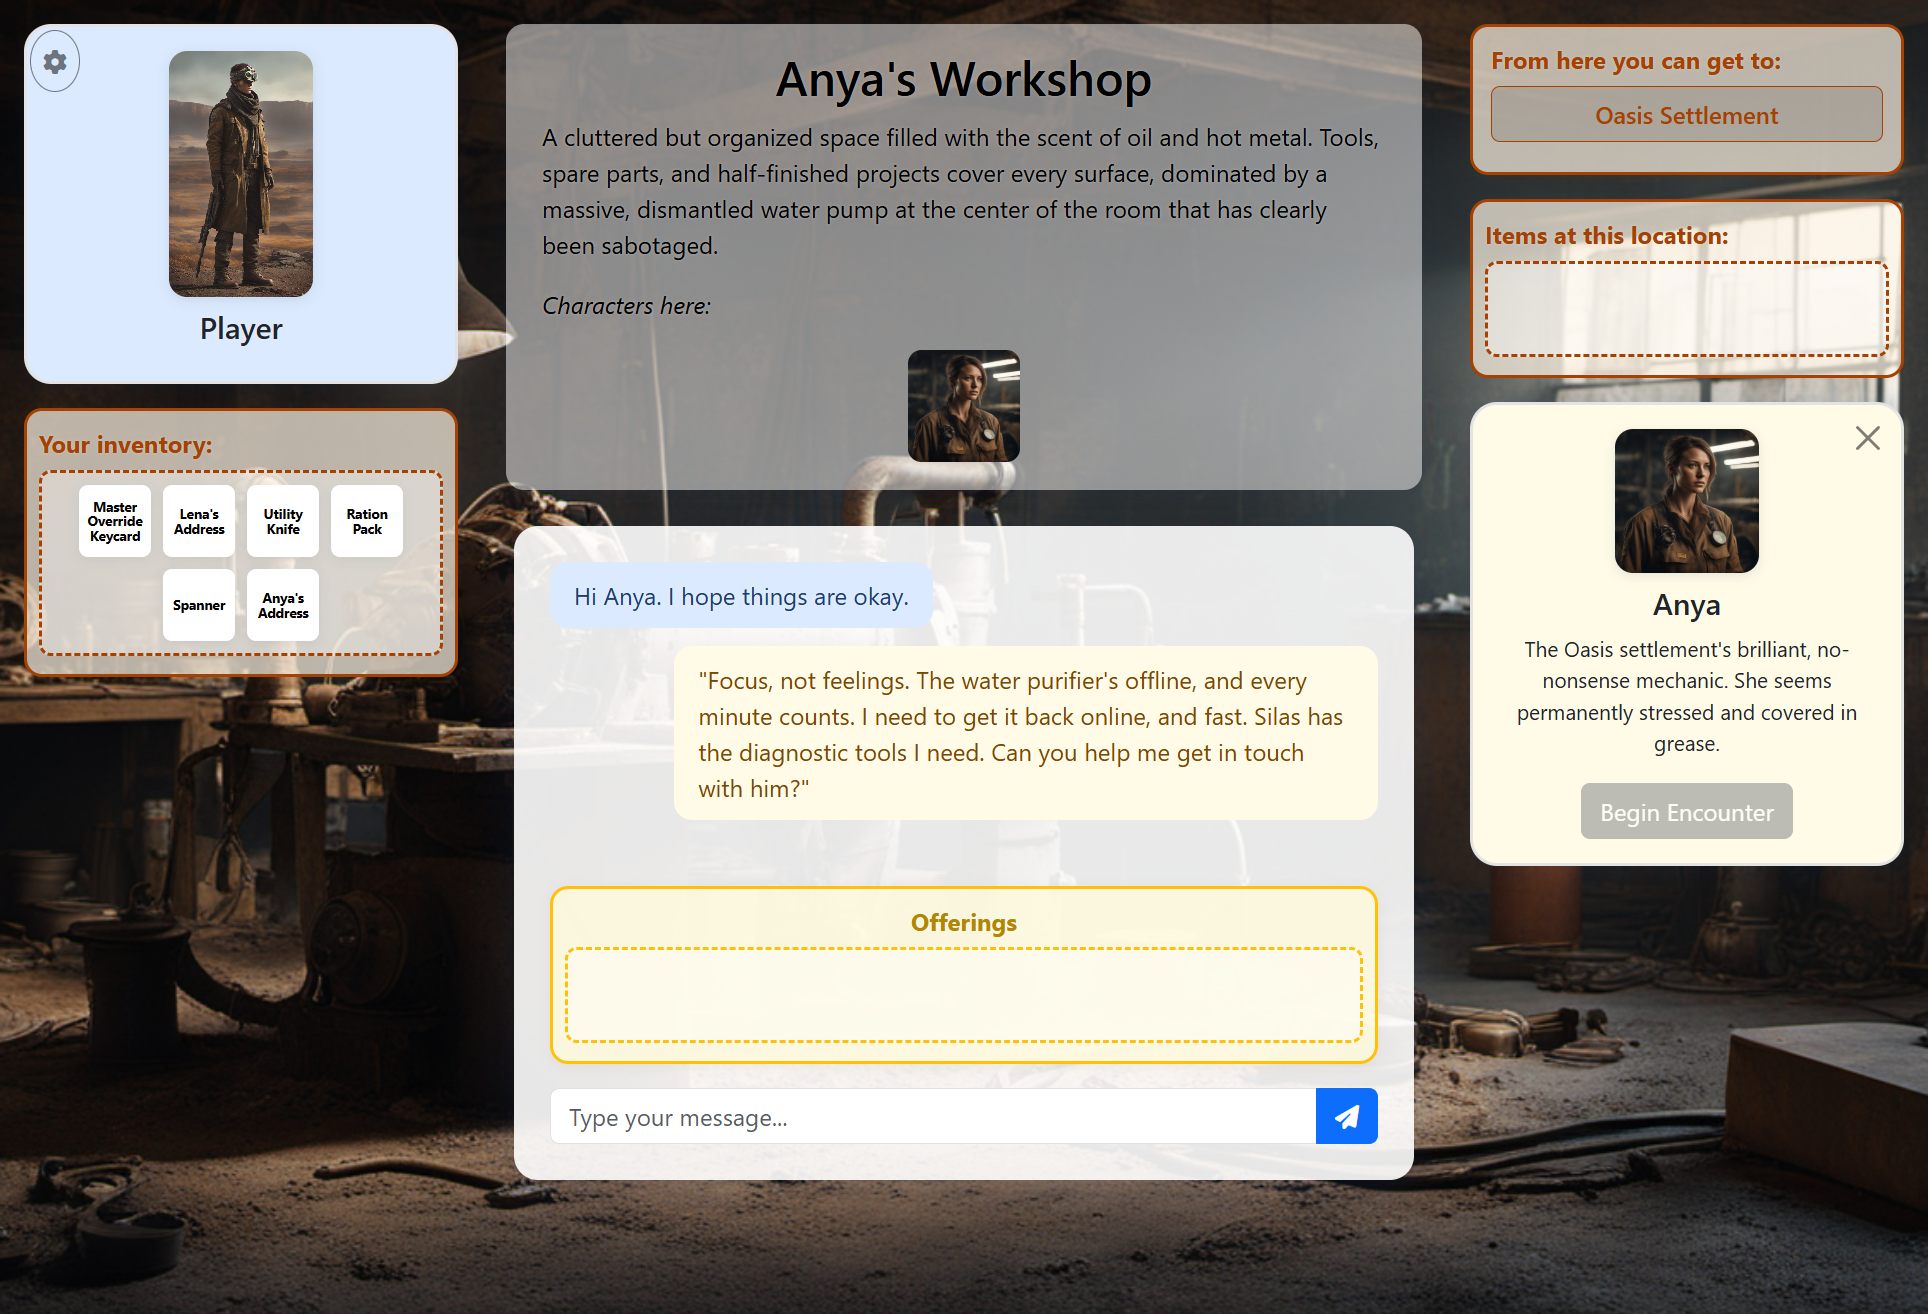
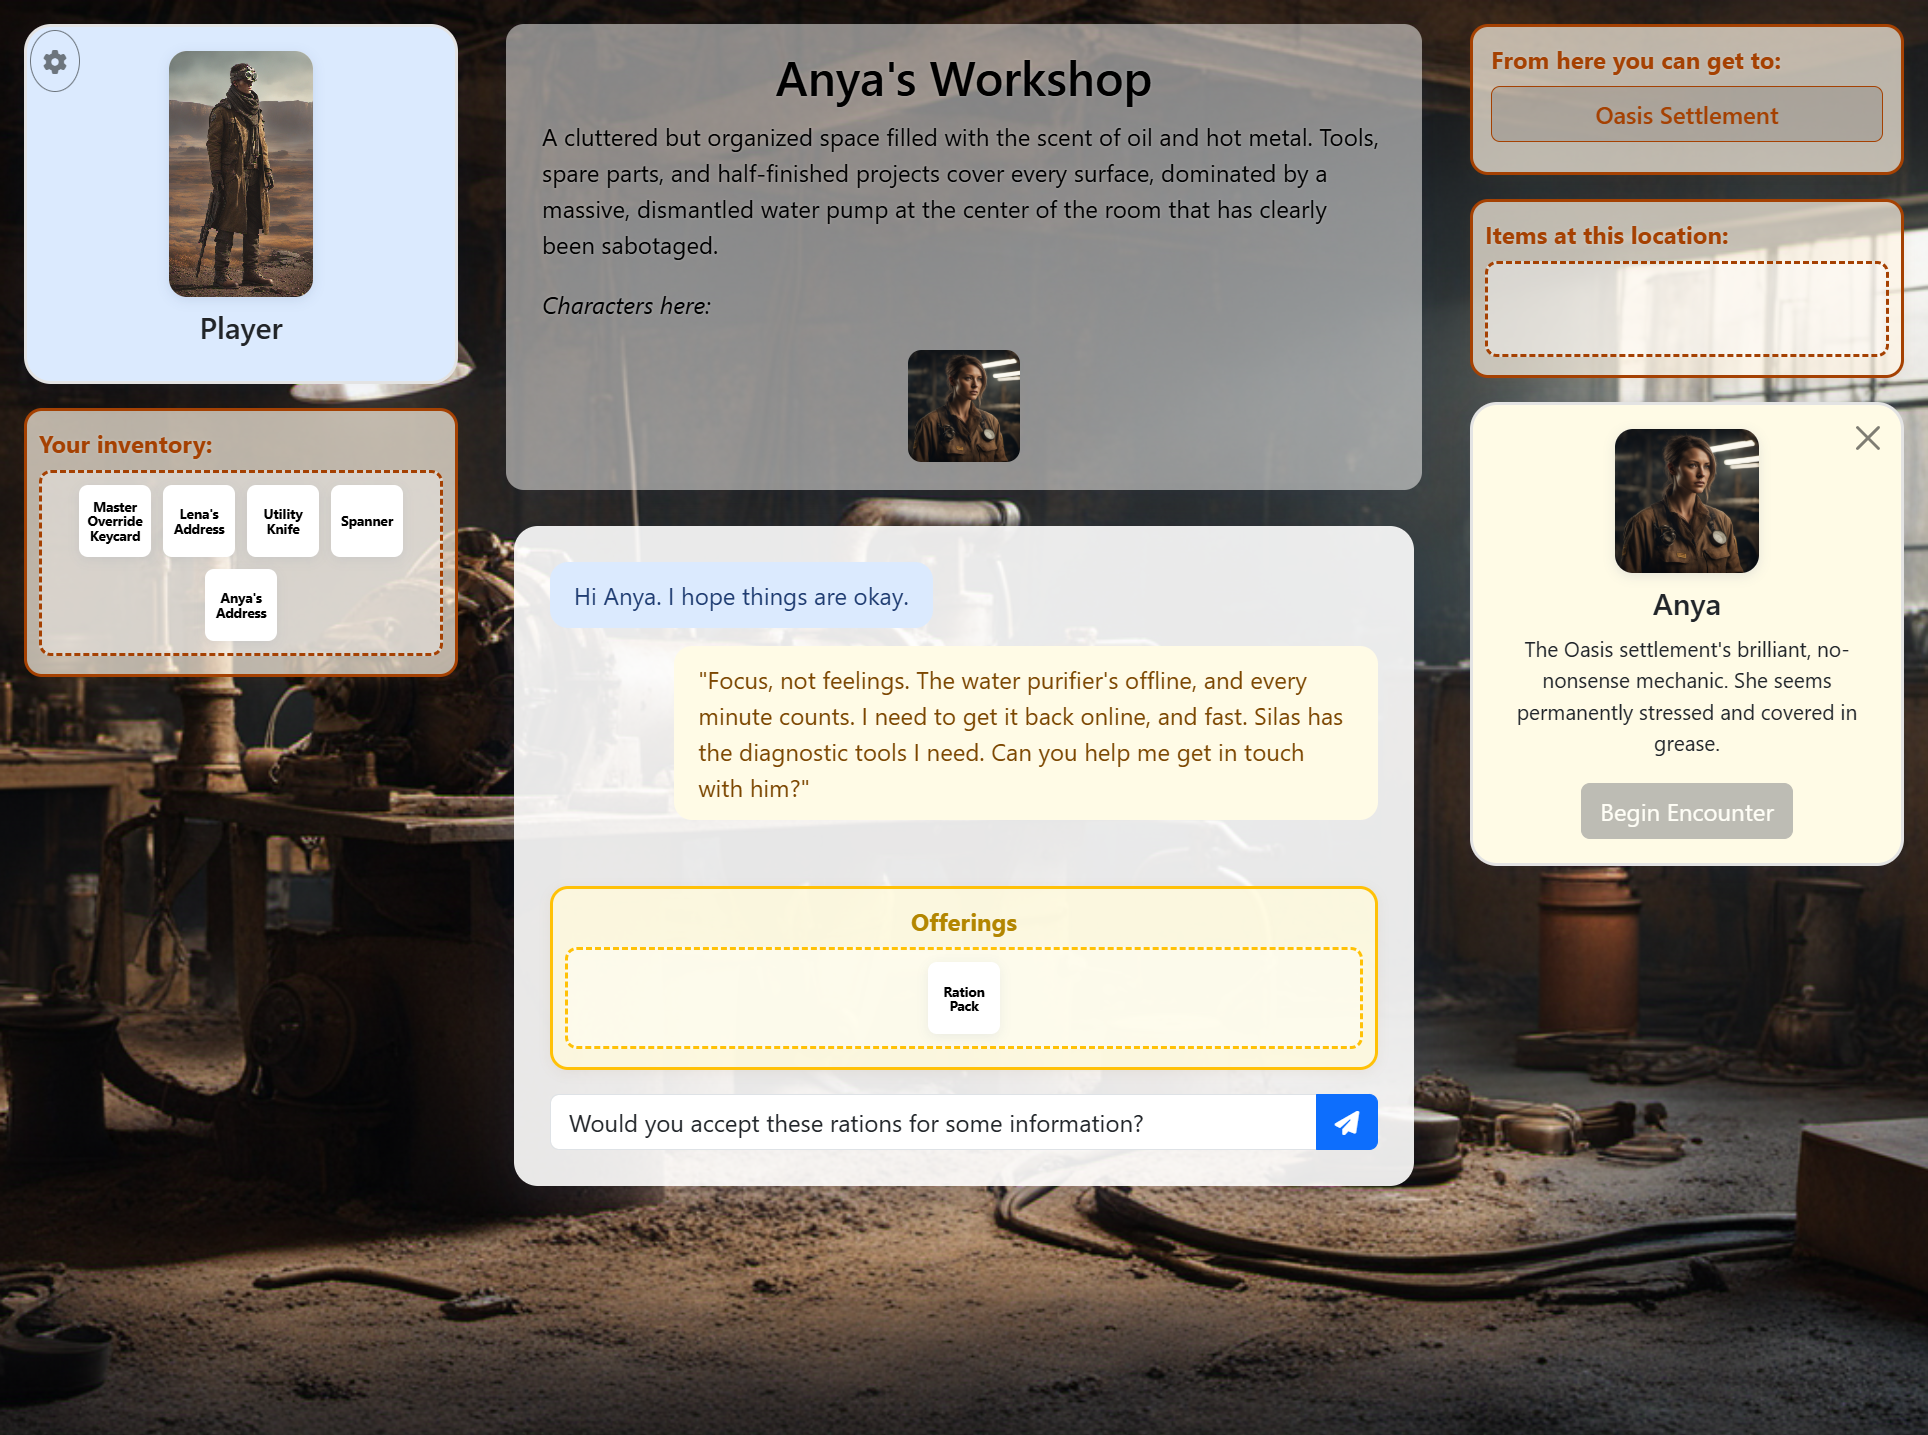
enhance readme

diff --git a/README.md b/README.md
@@ -11,6 +11,47 @@ This is **not a complete game** but rather a proof-of-concept and experimentatio
 - **Game Engine Integration**: Bridging AI responses with JavaScript game mechanics
 - **System Prompt Engineering**: Crafting prompts that create consistent, game-appropriate AI behavior
 
+## The Game Concept
+
+The game concept centers around **AI-driven character interactions** within an easily customizable trading environment. Players navigate a world where every non-player character (NPC) is powered by fine-tuned language models, creating dynamic conversations that directly influence game mechanics through structured outputs.
+
+Rather than scripted dialogue trees, characters respond naturally to player input while adhering to their programmed personas and the game's trading protocols. This concept serves as a practical demonstration of how LLMs can be trained to maintain character consistency, follow interaction rules, and generate actionable responses that seamlessly integrate with game systems.
+
+**Current Development Status**: The game implementation is intentionally incomplete, serving as a foundational prototype rather than a finished product. Several gameplay areas remain underdeveloped, and the character interactions require substantial training refinement to achieve full coherence. The included training datasets represent an initial starting point designed to inspire further development rather than provide production-ready AI behavior. Significant additional work in training data curation, system prompt optimization, and model fine-tuning will be necessary to realize the full potential of this AI-driven gaming approach.
+
+<div align="center">
+
+![Game Interface Overview](game/screencap/screencap1.png)
+*Figure 1: Main game interface showing character interaction, inventory management, and location-based gameplay*
+
+<br><br>
+
+![Character Dialogue System](game/screencap/screencap2.png)
+*Figure 2: Real-time character dialogue demonstrating structured AI responses with JSON action outputs*
+
+</div>
+
+### Framework Features for AI Training
+
+The interface demonstrates several key training concepts:
+
+- **Structured Dialogue Management**: Characters maintain consistent personas and behavioral patterns as defined in their system prompts
+- **Action-Based Interactions**: Every AI response concludes with parseable JSON actions (`{"give": [], "take": [], "attack": true}`) that drive game mechanics
+- **Context Preservation**: Characters remember conversation history and maintain awareness of game state (inventory, location, relationships)
+- **Constraint Adherence**: AI models learn to operate within specific rules (trading protocols, character limitations, world consistency)
+- **Real-time Inference**: Live deployment environment for testing model behavior under actual user interactions
+
+### Training Data Validation
+
+The framework enforces strict conversation formats that teach models to:
+
+- End responses with structured actions rather than continuing dialogue indefinitely
+- Maintain character consistency across multiple conversation turns
+- Respond appropriately to specific input patterns (e.g., `[OFFER: item_name]` triggers trading logic)
+- Generate valid game actions that the JavaScript engine can interpret and execute
+
+This interface serves as both a **testing ground** for newly trained models and a **demonstration** of how structured AI responses can seamlessly integrate with interactive systems.
+
 ## Key Components
 
 ### 1. Training Pipeline (`train_lora.py`)
